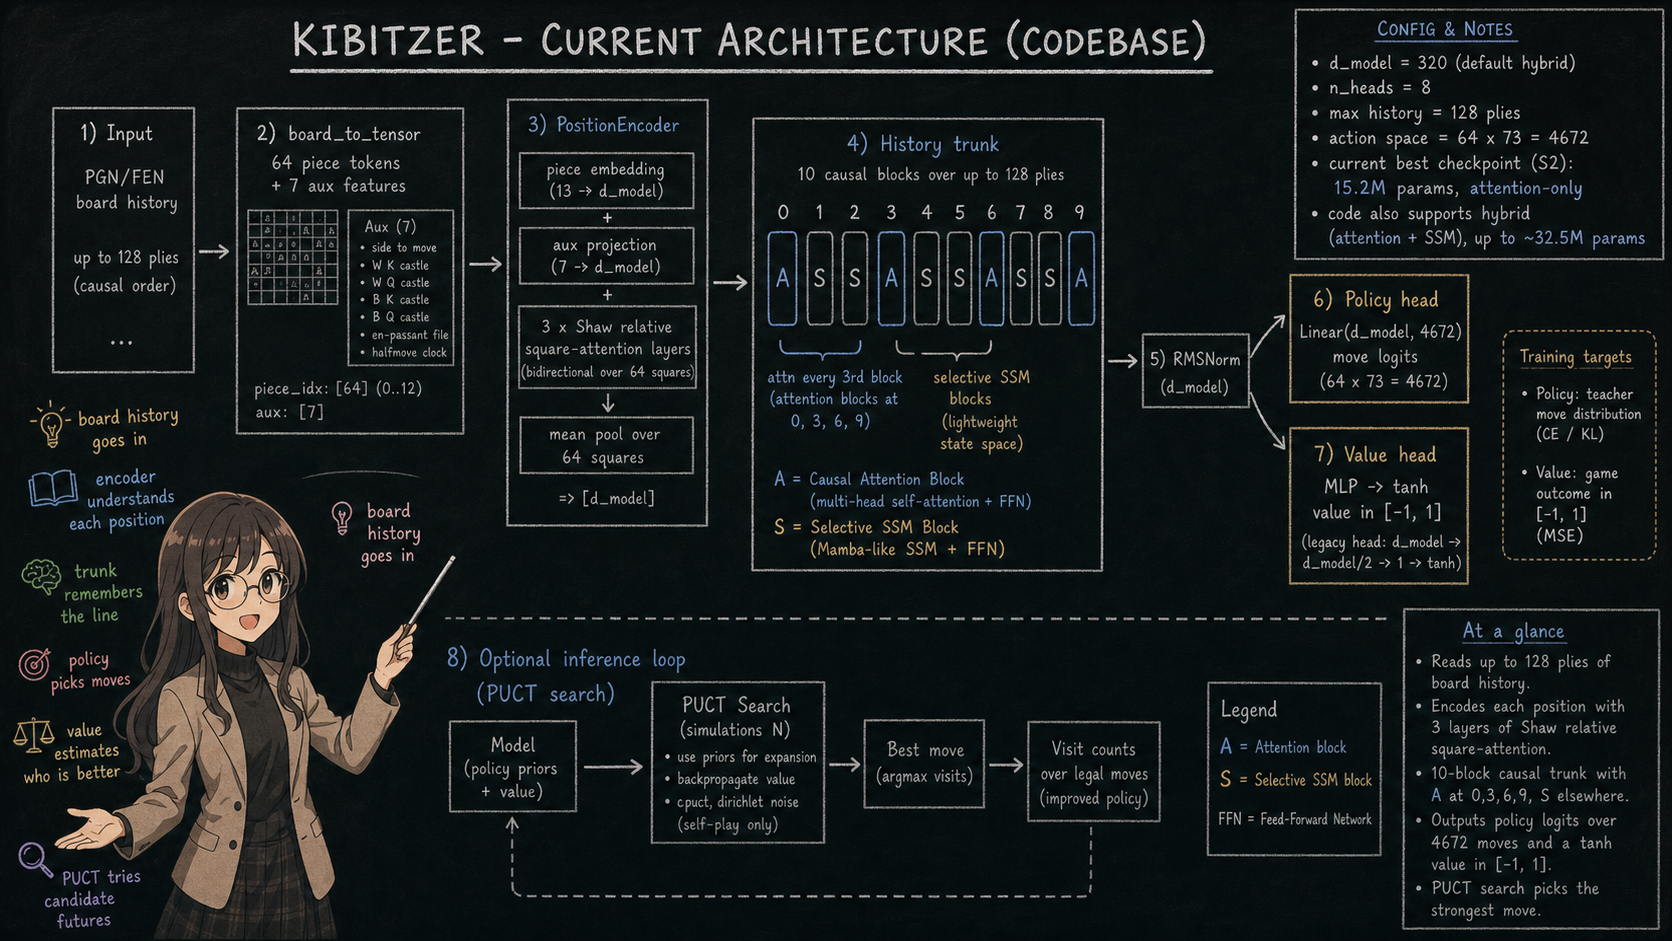
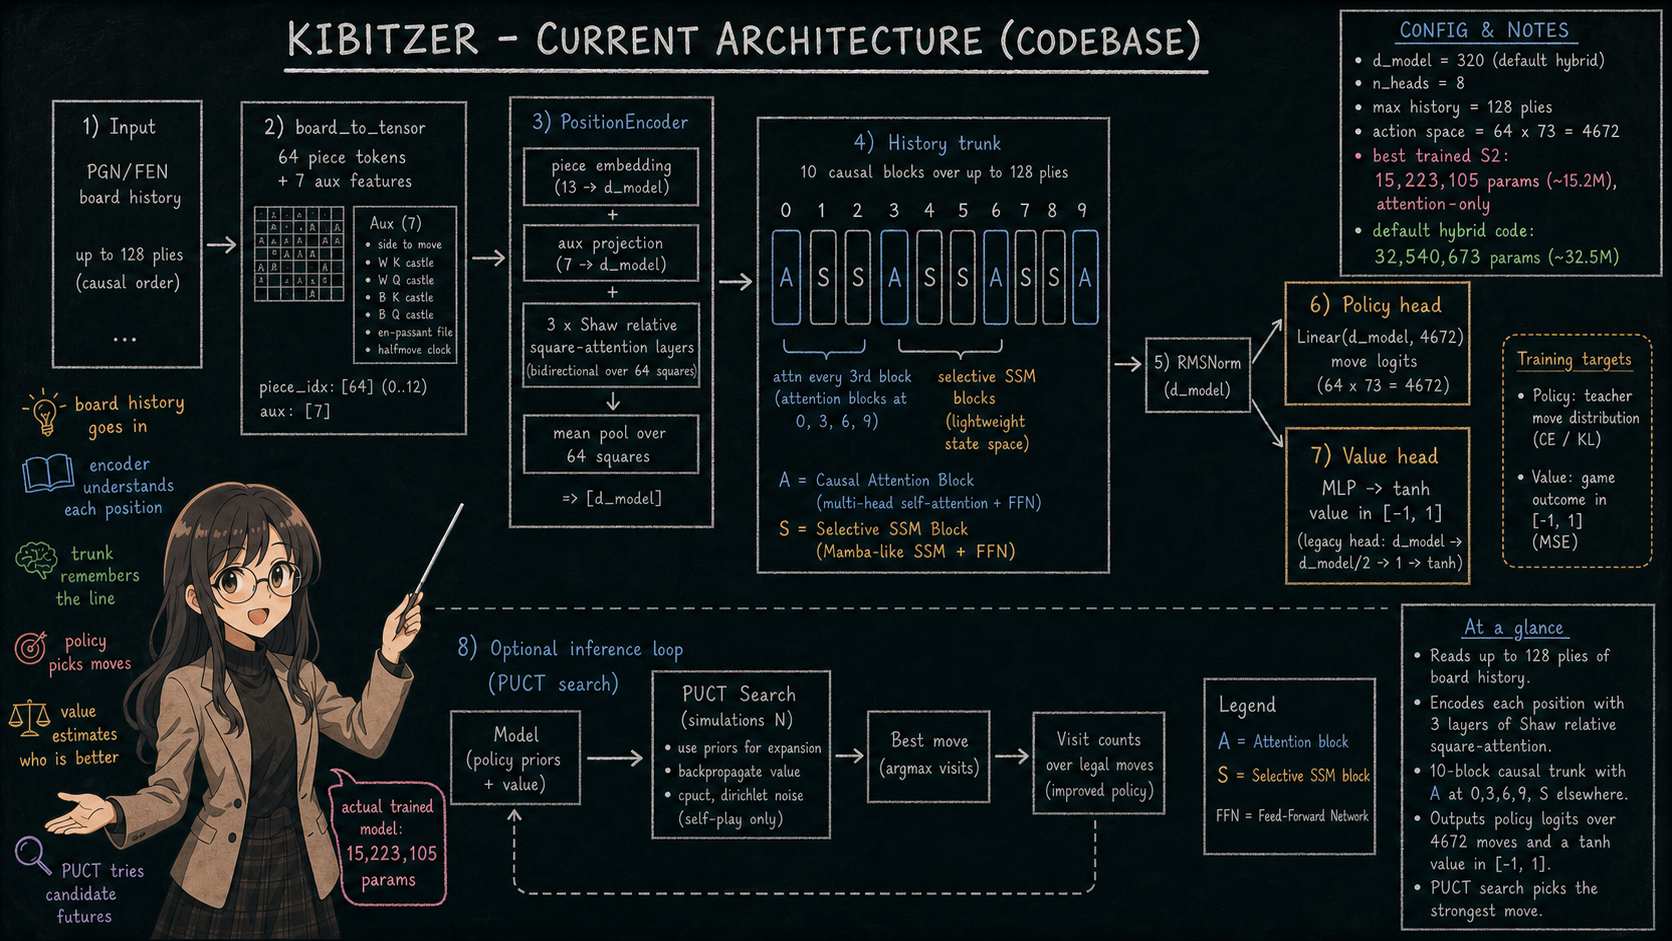
docs: polish experiment README

Changed region(s): [[0.0, 0.0, 1.0, 1.0], [0.5598, 0.6472, 0.622, 0.678]]

diff --git a/README.md b/README.md
@@ -34,11 +34,20 @@ board -- [position encoder] -- [alternating trunk] -- policy (4672 moves)
 | ssm state dim | 8 |
 | params | **32.5m** |
 
-![current code architecture](docs/kibitzer-current-architecture-blackboard.png)
-
 ![anime explainer architecture](docs/kibitzer-architecture-anime-explainer.png)
 
-the first diagram is the current code architecture; the second is the same path explained more plainly. the core idea: **attention is good at global reasoning, SSM is cheaper**. interleave them - every 3rd trunk block is attention, the rest are SSM. you get the benefits of both without paying full-attention cost across the whole sequence.
+the diagram is the current code path, with exact parameter counts written in the figure. the core idea: **attention is good at global reasoning, SSM is cheaper**. interleave them - every 3rd trunk block is attention, the rest are SSM. you get the benefits of both without paying full-attention cost across the whole sequence.
+
+## published model
+
+strongest checkpoint: **[`Pradheep1647/kibitzer-s2-shaw-142m-comp`](https://huggingface.co/Pradheep1647/kibitzer-s2-shaw-142m-comp)**.
+
+| artifact | value |
+|---|---|
+| checkpoint | `S2_shaw_142M_comp.pt` |
+| local path | `runs/scaling_shaw_comp/S2_shaw_142M_comp.pt` |
+| training objective | `policy_value_competition_continuation` |
+| eval setup | 64-sim PUCT unless stated otherwise |
 
 ## what it does
 
@@ -59,6 +68,8 @@ assessed against stockfish ladder, 64 sims PUCT:
 
 ![elo](reports/scaling_law/fig_elo.png)
 
+protocol: Stockfish was run with `UCI_LimitStrength` at fixed Elo settings; Kibitzer used the S2 Shaw 142m checkpoint plus 64 PUCT simulations per move. Score is `(wins + 0.5 * draws) / games` from Kibitzer's side. The Elo estimate is a fit over the ladder, not a raw-policy rating.
+
 | opponent (sf elo) | score | result |
 |---|---|---|
 | 1900 | 0.938 | 37W / 1D / 2L |
@@ -67,6 +78,8 @@ assessed against stockfish ladder, 64 sims PUCT:
 | 2500 | 0.525 | 13W / 16D / 11L |
 
 estimated elo: **2483 ± 32** (search-based, 64 sims)
+
+read this as: with search enabled, the model is roughly even with the 2500 Stockfish setting under this specific ladder, and clearly above the 1900-2300 settings. it is not a standalone no-search rating, and it is not a claim about tournament engine strength outside this protocol. PGNs and JSON summaries live under `reports/scaling_law/elo_local/`.
 
 ### scaling study
 
@@ -134,11 +147,20 @@ both experiments converged: offline metrics don't predict play. the value head i
 
 [full D52 report](reports/value_head/REPORT.md)
 
-## the messy part
+## experiment log
 
-thirty-five point-experiments (D1–D35) chasing one tweak at a time on one model size. none beat the 1320 baseline. every "improvement" measured offline. most of them didn't translate to actual play.
+this repo is closer to a lab notebook than a clean model release. the short version:
 
-the full saga of bad decisions, dead ends, and what we learned: **[decision.md](decision.md)** and **[docs/scaling_study/README.md](docs/scaling_study/README.md)**
+| line | result |
+|---|---|
+| scaling/data | worked best; data mattered more than more params past ~15m |
+| search depth | helped play, but mostly as an inference-time crutch |
+| az self-play | beat its own base, regressed vs maia/leela-style opponents |
+| td-leaf | fixed easy curriculum rungs, stalled around 1900 |
+| value-head repair | improved offline value metrics, regressed real play |
+| joint scratch / point tweaks | mostly negative or inconclusive |
+
+the longer failure log is in **[decision.md](decision.md)**; the scaling summary is in **[docs/scaling_study/README.md](docs/scaling_study/README.md)**.
 
 ## roadmap
 
@@ -168,7 +190,7 @@ uv run python scripts/train_bc.py -h  # supervised training
 | `runs/scaling_shaw_comp/S2_shaw_142M_comp.pt` | best supervised model (14.9m, 142m pos) | scaling sweep |
 | `runs/az/az_iter_1.pt` | az iter 1 (one pass of self-play) | 2026-07-08 |
 
-generated checkpoints are gitignored. hf push available via `scripts/eval_and_rename_hf.py`.
+generated checkpoints are gitignored. the strongest published checkpoint is on [Hugging Face](https://huggingface.co/Pradheep1647/kibitzer-s2-shaw-142m-comp); hf push support lives in `kibitzer/hf_utils.py`.
 
 ## citations
 
@@ -177,3 +199,9 @@ beyond the typical alphazero/deepmind stuff:
 - [chinchilla scaling laws](https://arxiv.org/abs/2203.15556) - compute-optimal training
 - [lc0](https://github.com/LeelaChessZero/lc0) - teacher for opd, eval opponent
 - [maia](https://arxiv.org/abs/2006.01855) - human-like chess engine, used for eval
+- [maia-2](https://arxiv.org/abs/2409.20553) - unified human-aligned chess model across skill levels
+- [allie](https://arxiv.org/abs/2410.03893) - human-aligned chess with time-adaptive search
+- [maia4all](https://arxiv.org/abs/2507.21488) - efficient individual human-behavior adaptation
+- [unimaia](https://arxiv.org/abs/2605.27767) - language-steered human-like chess policy control
+- [chessmimic](https://arxiv.org/abs/2606.04473) - recent per-rating transformers; compares against maia-3
+- [elo-disentangled style embeddings](https://arxiv.org/abs/2606.25176) - player-style modeling using maia-3 policy logits
